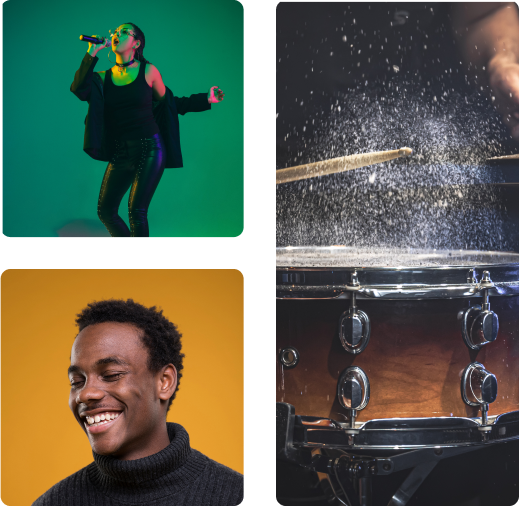
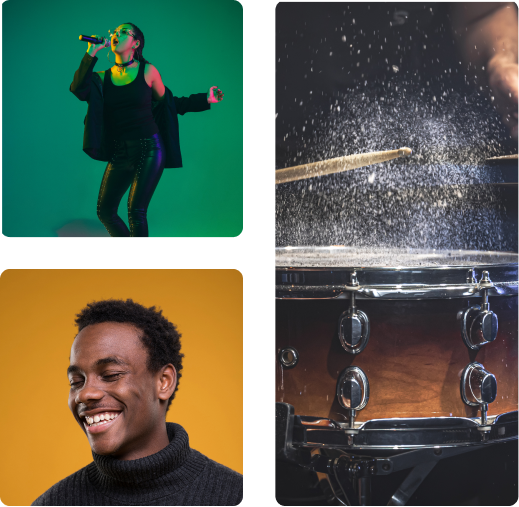
23rd push

diff --git a/pages/About.vue b/pages/About.vue
@@ -32,13 +32,13 @@
             </p>
         </div>
 
-        <div data-aos="zoom-in-left" class="perspective1 max-[1200px]:col-span-7 min-w-400 ml-14 max-[1200px]:mx-auto"
+        <div data-aos="zoom-in-left" class="perspective1 h-fit max-[1200px]:col-span-7 min-w-400 ml-14 max-[1200px]:mx-auto"
              data-aos-easing="ease"
              data-aos-anchor-placement="top-center"
              data-aos-duration="2000"
              data-aos-delay="100" 
              data-aos-offset="0">
-            <img src="../assets/images/Mission.png" class="w-full img max-[1200px]:mx-auto">
+            <img src="../assets/images/Mission.png" class="w-full max-[1200px]:mx-auto">
         </div>
     </div>
     </div>
@@ -49,7 +49,13 @@
 
     <div class="mt-8 mb-28 grid grid-cols-12 gap-12 max-[1200px]:grid-cols-5">
         <div class="perspective1 col-span-5 col-start-2 max-[1200px]:col-start-1 mx-auto">
-            <img src="../assets/images/Vision.png" class="img max-[1200px]:mx-auto heart">
+            <img src="../assets/images/Vision.png" class="max-[1200px]:mx-auto"
+                data-aos="fade-up"
+                data-aos-easing="ease"
+                data-aos-duration="2000"
+                data-aos-anchor-placement="top-center"
+                data-aos-delay="0"
+                data-aos-offset="-200">
         </div>
         <div class="mt-10 col-span-5 col-start-7 max-[1200px]:col-start-1 max-w-lg mx-auto max-[1200px]:max-w-2xl">
             <p class="text-4xl font-semibold text-right">Our Vision</p>
@@ -79,13 +85,13 @@
             </div>
 
             <div class="p-1">
-                <img src="../assets/images/Million.png" class="img"
+                <img src="../assets/images/Million.png" class=""
                 data-aos="fade-down-right"
                 data-aos-easing="ease"
                 data-aos-duration="2000"
                 data-aos-anchor-placement="top-center"
                 data-aos-delay="100"
-                data-aos-offset="0">
+                data-aos-offset="-120">
             </div>
             
             
@@ -100,7 +106,7 @@
                 data-aos="fade-down-left"
                 data-aos-easing="ease"
                 data-aos-duration="1000"
-                data-aos-anchor-placement="center-bottom"
+                data-aos-anchor-placement="alt-bottom"
                 data-aos-delay="0"
                 data-aos-offset="100">Create a Profile: Musicians can create a profile that<span><br>&ensp;&emsp;</span>showcases their talents, experience, and availability.
                 </li>
@@ -109,7 +115,7 @@
                 data-aos="fade-down-left"
                 data-aos-easing="ease"
                 data-aos-duration="1200"
-                data-aos-anchor-placement="center-bottom"
+                data-aos-anchor-placement="alt-bottom"
                 data-aos-delay="200"
                 data-aos-offset="100">Browse Gigs: Musicians can search for gigs based on<span><br>&ensp;&emsp;</span>their preferences, including location, genre, and pay.
                 </li>
@@ -118,7 +124,7 @@
                 data-aos="fade-down-left"
                 data-aos-easing="ease"
                 data-aos-duration="1400"
-                data-aos-anchor-placement="center-bottom"
+                data-aos-anchor-placement="alt-bottom"
                 data-aos-delay="300"
                 data-aos-offset="100">Apply to Gigs: Musicians can apply to gigs with just a<span><br>&ensp;&emsp;</span>few clicks, and receive notifications when they are<span><br>&ensp;&emsp;</span>booked.
                 </li>
@@ -127,7 +133,7 @@
                 data-aos="fade-down-left"
                 data-aos-easing="ease"
                 data-aos-duration="1600"
-                data-aos-anchor-placement="center-bottom"
+                data-aos-anchor-placement="alt-bottom"
                 data-aos-delay="400"
                 data-aos-offset="100">Listen to Music: Event organizers can browse<span><br>&ensp;&emsp;</span>through musician profiles, listen to their music, and<span><br>&ensp;&emsp;</span>send booking requests directly through the app.
                 </li>
@@ -136,7 +142,7 @@
                 data-aos="fade-down-left"
                 data-aos-easing="ease"
                 data-aos-duration="1800"
-                data-aos-anchor-placement="center-bottom"
+                data-aos-anchor-placement="alt-bottom"
                 data-aos-delay="500"
                 data-aos-offset="100">Manage Bookings: Musicians can manage their<span><br>&ensp;&emsp;</span>bookings, including accepting or declining offers,<span><br>&ensp;&emsp;</span>and communicating with event organizers through<span><br>&ensp;&emsp;</span>the app.
                 </li>
@@ -212,30 +218,6 @@
 </script>
 <style scoped>
 
-
-.img {
-  --s: 15px;  /* size of the frame */
-  --b: 2px;   /* border thickness */
-  --w: 90%; /* width of the image */
-  --c: #7B3B3B;
-  
-  width: var(--w);
-  aspect-ratio: inherit;
-  padding: calc(2*var(--s));
-  --_g: var(--c) var(--b),#0000 0 calc(100% - var(--b)),var(--c) 0;
-  background:
-    linear-gradient(      var(--_g)) 50%/100% var(--_i,100%) no-repeat,
-    linear-gradient(90deg,var(--_g)) 50%/var(--_i,100%) 100% no-repeat;
-  outline: calc(var(--w)/2) solid #0009;
-  outline-offset: calc(var(--w)/-2 - 2*var(--s));
-  transition: .4s;
-  cursor: pointer;
-}
-.img:hover {
-  outline: var(--b) solid var(--c);
-  outline-offset: calc(var(--s)/-2);
-  --_i: calc(100% - 2*var(--s));
-}
 .justify-content{
       display: flex;
       justify-content: center;

diff --git a/components/Hero.vue b/components/Hero.vue
@@ -1,7 +1,7 @@
 <template>
   <!-- Hero section start -->
   <div class="bg-black">
-    <section class="mx-auto max-w-1440 grid grid-cols-2 max-xl:grid-cols-1 max-xl:pl-7 pl-14 items-center">
+    <section class="mx-auto max-w-1440 grid grid-cols-2 max-xl:grid-cols-1 max-xl:pl-7 pl-14 items-center relative">
         <div class="text-white pt-9 pr-12">
           <NuxtLink to="/">
             <img class="mb-20 w-44" src="../assets/images/logo.svg">
@@ -16,8 +16,13 @@
           </div>
         </div>
 
-        <div class="overflow-visible mx-auto">
+        <div class="overflow-visible mx-auto z-30">
           <img src="../assets/images/Content.png" class="w-11/12  mb-2 ghost"/>
+        </div>
+
+        <div class="circle-shadow absolute bottom-0 right-0 z-10">
+          <div class="circle-shadow1 absolute bottom-0 right-0 z-10">
+          </div>
         </div>
       </section>
   </div>
@@ -54,6 +59,44 @@
       font-size: 72px;
       line-height: 92px;
       letter-spacing: -0.05em;
+    }
+    .circle-shadow{
+        width: 510px;
+        height: 450px;
+        border-top-left-radius: 700px;
+        border: 1px solid white;
+        border-right: 0px;
+        border-bottom: 0px;
+        background-color: rgba(248, 235, 235, 0);
+        transition: 3s ease;
+        animation: grow 2s infinite alternate;
+    }
+    .circle-shadow:hover{
+        width: 100%;
+        height: 100%;
+        border: 0px dashed rgba(255, 255, 255, 0);
+        border-radius: 0px;
+        background-color: rgba(0, 0, 0, 0);
+        animation: none;
+    }
+    .circle-shadow1{
+        width: 340px;
+        height: 300px;
+        border-top-left-radius: 700px;
+        border: 1px solid white;
+        border-right: 0px;
+        border-bottom: 0px;
+        background-color: rgba(248, 235, 235, 0);
+        transition: 3s ease;
+        animation: grow 2s infinite alternate;
+    }
+    .circle-shadow1:hover{
+        width: 100%;
+        height: 100%;
+        border: 0px dashed rgba(255, 255, 255, 0);
+        border-radius: 0px;
+        background-color: rgba(0, 0, 0, 0);
+        animation: none;
     }
     @media only screen and (max-width: 600px) {
       .text-72{

diff --git a/pages/Contact.vue b/pages/Contact.vue
@@ -21,7 +21,7 @@
 
         <!-- Purple div Section Starts -->
 
-        <div class="ghost purple-div w-2/5 max-lg:w-full relative">
+        <div class="purple-div w-2/5 max-lg:w-full relative">
             <p class="m-10 text-white text-3xl font-semibold">Contact Information</p>
             <div class="mx-10 mt-36 mb-40 grid grid-rows-3 grid-cols-7 text-white gap-8">
 
@@ -36,13 +36,7 @@
 
                 
             </div>
-            <div class="circle-shadow absolute bottom-0 right-0"
-                data-aos="zoom-in-down"
-                data-aos-easing="ease"
-                data-aos-duration="1200"
-                data-aos-anchor-placement="center-bottom"
-                data-aos-delay="100"
-                data-aos-offset="0"></div>
+            <div class="circle-shadow absolute bottom-0 right-0"></div>
         </div>
 
         <!-- Purple div Section Ends -->
@@ -52,7 +46,7 @@
 
 
 
-        <div class="ghost2 white-div w-3/5 max-lg:w-full px-12 pt-16">
+        <div class="white-div w-3/5 max-lg:w-full px-12 pt-16">
             <div class="grid grid-cols-2 grid-rows-2 max-sm:grid-cols-1 mb-12 gap-10">
 
                 <!-- Input Section Starts -->
@@ -94,20 +88,20 @@
 
             <div class="mb-12 text-sm responsiveGrid row-gap-8">
 
-            <label class="">
-                <input type="radio" checked="checked" name="radio">
+            <label class="cursor-pointer">
+                <input type="radio" checked="checked" name="radio" class="cursor-pointer">
                 General Inquiry
             </label>
-            <label class="">
-                <input type="radio" name="radio">
+            <label class="cursor-pointer">
+                <input type="radio" name="radio" class="cursor-pointer">
                 General Inquiry
             </label>
-            <label class="">
-                <input type="radio" name="radio">
+            <label class="cursor-pointer">
+                <input type="radio" name="radio" class="cursor-pointer">
                 General Inquiry
             </label>
-            <label class="">
-                <input type="radio" name="radio">
+            <label class="cursor-pointer">
+                <input type="radio" name="radio" class="cursor-pointer">
                 General Inquiry
             </label>
 
@@ -126,7 +120,7 @@
 
             <!-- Message section ends -->
             <div class="float-right">
-                <div class="Purple-button text-white mt-5 px-10">Send message</div>
+                <div class="Purple-button text-white mt-5 px-10 cursor-pointer">Send message</div>
             </div>
 
         </div>

diff --git a/pages/Musicians.vue b/pages/Musicians.vue
@@ -118,21 +118,37 @@
   perspective: 1000px;
 }
 .tainer:hover>:nth-child(4)>img {
-  transform: translate(-120px, -80px) rotateY(-40deg)  scale(1);
   opacity: 1;
+  animation: turn1 5s ease 1 alternate;
 }
+  @keyframes turn1 {
+    22%, 69% {transform: translate(-120px, -80px) rotateY(-40deg)  scale(1);}
+      to {transform: translate(0px, 0px) rotateY(0deg)  scale(inherit);}
+  }
 .tainer:hover>:nth-child(3)>img {
-  transform: translate(-80px, -80px) rotateY(-40deg)  scale(1);
   opacity: 0.8;
+  animation: turn2 5s ease 1 alternate;
 }
+  @keyframes turn2 {
+    26%, 74% {transform: translate(-80px, -80px) rotateY(-40deg)  scale(1);}
+      to {transform: translate(0px, 0px) rotateY(0deg)  scale(inherit);}
+  }
 .tainer:hover>:nth-child(2)>img {
-  transform: translate(-40px, -80px) rotateY(-40deg)  scale(1);
   opacity: 0.6;
+  animation: turn3 5s ease 1 alternate;
 }
+  @keyframes turn3 {
+    30%, 79% {transform: translate(-40px, -80px) rotateY(-40deg)  scale(1);}
+      to {transform: translate(0px, 0px) rotateY(0deg)  scale(inherit);}
+  }
 .tainer:hover>:nth-child(1)>img {
-  transform: translate(0px, -80px) rotateY(-40deg)  scale(1);
   opacity: 0.4;
+  animation: turn4 5s ease 1 alternate;
 }
+  @keyframes turn4 {
+    34%, 84% {transform: translate(0px, -80px) rotateY(-40deg)  scale(1);}
+      to {transform: translate(0px, 0px) rotateY(0deg)  scale(inherit);}
+  }
     .text-72{
       font-size: 72px;
       line-height: 92px;

diff --git a/components/Card2.vue b/components/Card2.vue
@@ -3,7 +3,7 @@
       <div>
   
       <div class="mx-auto max-w-1440 grid grid-cols-12                max-[1024px]:grid-cols-1  max-[1024px]:grid-rows-2                   max-[670px]:px-0 px-16 gap-10">
-        <div class="ghost col-span-6 max-[1024px]:col-span-1 bg-image mb-32 mx-auto     max-[1024px]:w-9/12 max-[785px]:w-11/12 max-[670px]:w-10/12">
+        <div class="col-span-6 max-[1024px]:col-span-1 bg-image mb-32 mx-auto     max-[1024px]:w-9/12 max-[785px]:w-11/12 max-[670px]:w-10/12">
           <img src="../assets/images/side-view-happy-people-making-music.png" class="w-full img">
           <div class="h-fit -mt-24 relative bg-gray min-h-168 pt-8 max-[650px]:pt-3  px-10">
             <p class="text-xl font-semibold mb-5 max-[650px]:mb-2">Showcase your skills</p>
@@ -11,7 +11,7 @@
                 find new opportunities, and earn money doing what they love.</p>
           </div>
         </div>
-        <div class="ghost2 col-span-6 max-[1024px]:col-span-1 bg-image1 mb-32 mx-auto     max-[1024px]:w-9/12 max-[785px]:w-11/12 max-[670px]:w-10/12">
+        <div class="col-span-6 max-[1024px]:col-span-1 bg-image1 mb-32 mx-auto     max-[1024px]:w-9/12 max-[785px]:w-11/12 max-[670px]:w-10/12">
           <img src="../assets/images/guitar-players.png" class="w-full img">
           <div class="h-fit -mt-24 relative bg-gray min-h-168 pt-8 max-[650px]:pt-3  px-10">
             <p class="text-xl font-semibold mb-5 max-[650px]:mb-2">Make the most of your time</p>
@@ -29,24 +29,6 @@
   </script>
 
 <style scoped>
-.img {
-  --_g: 10% /45% 45% no-repeat linear-gradient(#000 0 0);
-  --m:
-    left   var(--_i,0%) top    var(--_g),
-    bottom var(--_i,0%) left   var(--_g),
-    top    var(--_i,0%) right  var(--_g),
-    right  var(--_i,0%) bottom var(--_g);
-  -webkit-mask: var(--m);
-          mask: var(--m);
-  filter: grayscale();
-  transition: 0.8s linear;
-  cursor: pointer;
-}
-.img:hover {
-  --_i: 100%;
-  filter: grayscale(0);
-  --_g: 0% /51% 51% no-repeat linear-gradient(#000 0 0);
-}
 
 
 .bg-image{

diff --git a/components/Card.vue b/components/Card.vue
@@ -31,24 +31,6 @@
   </script>
 
 <style scoped>
-.img {
-  --_g: 10% /45% 45% no-repeat linear-gradient(#000 0 0);
-  --m:
-    left   var(--_i,0%) top    var(--_g),
-    bottom var(--_i,0%) left   var(--_g),
-    top    var(--_i,0%) right  var(--_g),
-    right  var(--_i,0%) bottom var(--_g);
-  -webkit-mask: var(--m);
-          mask: var(--m);
-  filter: grayscale();
-  transition: 0.8s linear;
-  cursor: pointer;
-}
-.img:hover {
-  --_i: 100%;
-  filter: grayscale(0);
-  --_g: 0% /50.01% 50% no-repeat linear-gradient(#000 0 0);
-}
 .bg-gray{
   background-color: #F2F2F2;
 }

diff --git a/pages/index.vue b/pages/index.vue
@@ -55,7 +55,7 @@
     
     .max-h-759{
         max-height: 759px;
-        height: 115%;
+        height: 100%;
     }
     }
 </style>

diff --git a/components/Apps.vue b/components/Apps.vue
@@ -54,6 +54,7 @@
 
       .expand:hover {
         animation: change 1s infinite alternate;
+        cursor: pointer;
       }
       @keyframes change{
         to { transform: scale(1.06); }